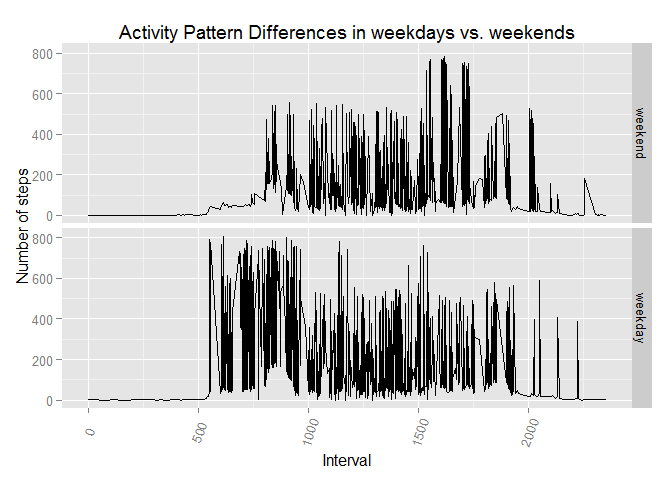
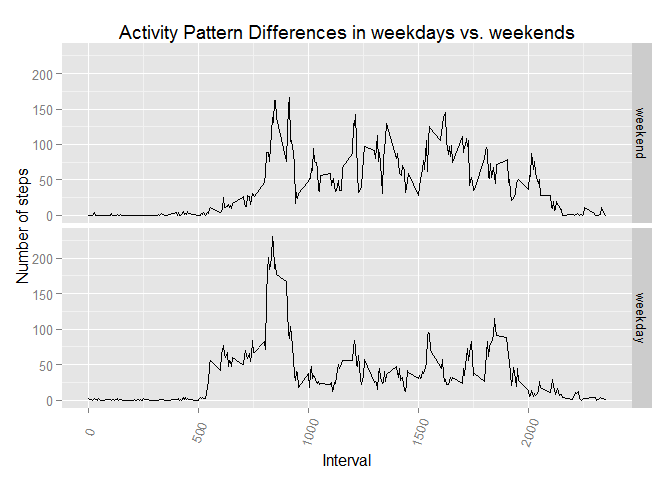
Final submission
looking pretty nice now, with more comments and description of the
actions carried out to perform the analysis.

diff --git a/PA1_template.html b/PA1_template.html
@@ -172,7 +172,7 @@ abline(v = median_clean_df, lwd = 2, lty = 2, col = &quot;blue&quot;)</code></pr
 <p>To answer this question, we first need to add a feature to distinguish between weekdays and weekends. Then, we pivot the dataframe, including the weekend informaiton.</p>
 <pre class="r"><code>weekend_days &lt;- c(&quot;Saturday&quot;,&quot;Sunday&quot;)
 clean_df$weekend &lt;- factor((weekdays(clean_df$date) %in% weekend_days), levels=c(T,F), labels = c(&quot;weekend&quot;,&quot;weekday&quot;))
-pivot_weekend &lt;- aggregate(interval ~ steps + weekend, clean_df, mean)</code></pre>
+pivot_weekend &lt;- aggregate(steps ~ interval + weekend, clean_df, mean)</code></pre>
 <p>We can now plot the two activity patterns into a timeline, as shown in the assignment description, seperating weekdays from weekends. We can see from the below plots, that the activity on average will start later on weekends, with less steps in the morning, but more steps in the afternoon.</p>
 <pre class="r"><code># installing/loading the ggplot package, if needed:
 if(!require(ggplot2)) { install.packages(&quot;ggplot2&quot;); require(ggplot2)} #load / install+load ggplot2</code></pre>
@@ -186,7 +186,7 @@ g &lt;- g + labs(y = &quot;Number of steps&quot;)
 g &lt;- g + scale_x_continuous(breaks=c(0,500,1000,1500,2000))
 g &lt;- g + theme(axis.text.x = element_text(angle = 70, vjust = 0.5)) 
 g</code></pre>
[2 lines of base64/hex data omitted]
 </div>
 </div>
 

diff --git a/PA1_template.md b/PA1_template.md
@@ -170,7 +170,7 @@ To answer this question, we first need to add a feature to distinguish between w
 ```r
 weekend_days <- c("Saturday","Sunday")
 clean_df$weekend <- factor((weekdays(clean_df$date) %in% weekend_days), levels=c(T,F), labels = c("weekend","weekday"))
-pivot_weekend <- aggregate(interval ~ steps + weekend, clean_df, mean)
+pivot_weekend <- aggregate(steps ~ interval + weekend, clean_df, mean)
 ```
 
 We can now plot the two activity patterns into a timeline, as shown in the assignment description, seperating weekdays from weekends. We can see from the below plots, that the activity on average will start later on weekends, with less steps in the morning, but more steps in the afternoon.
